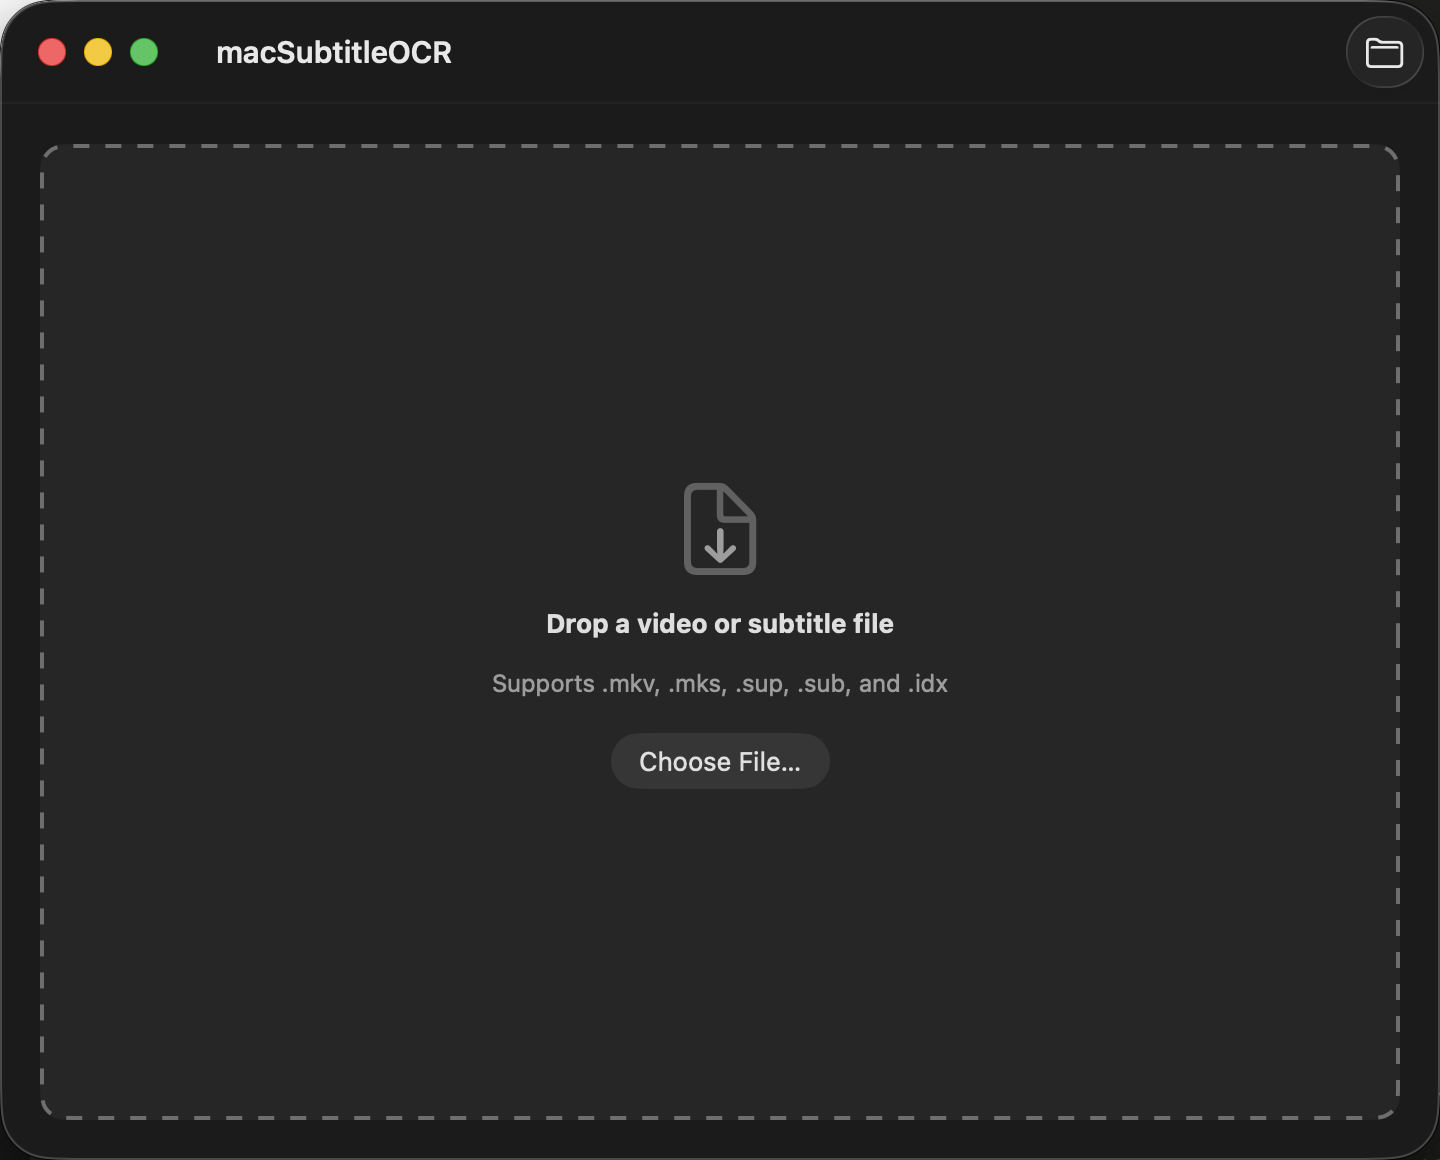
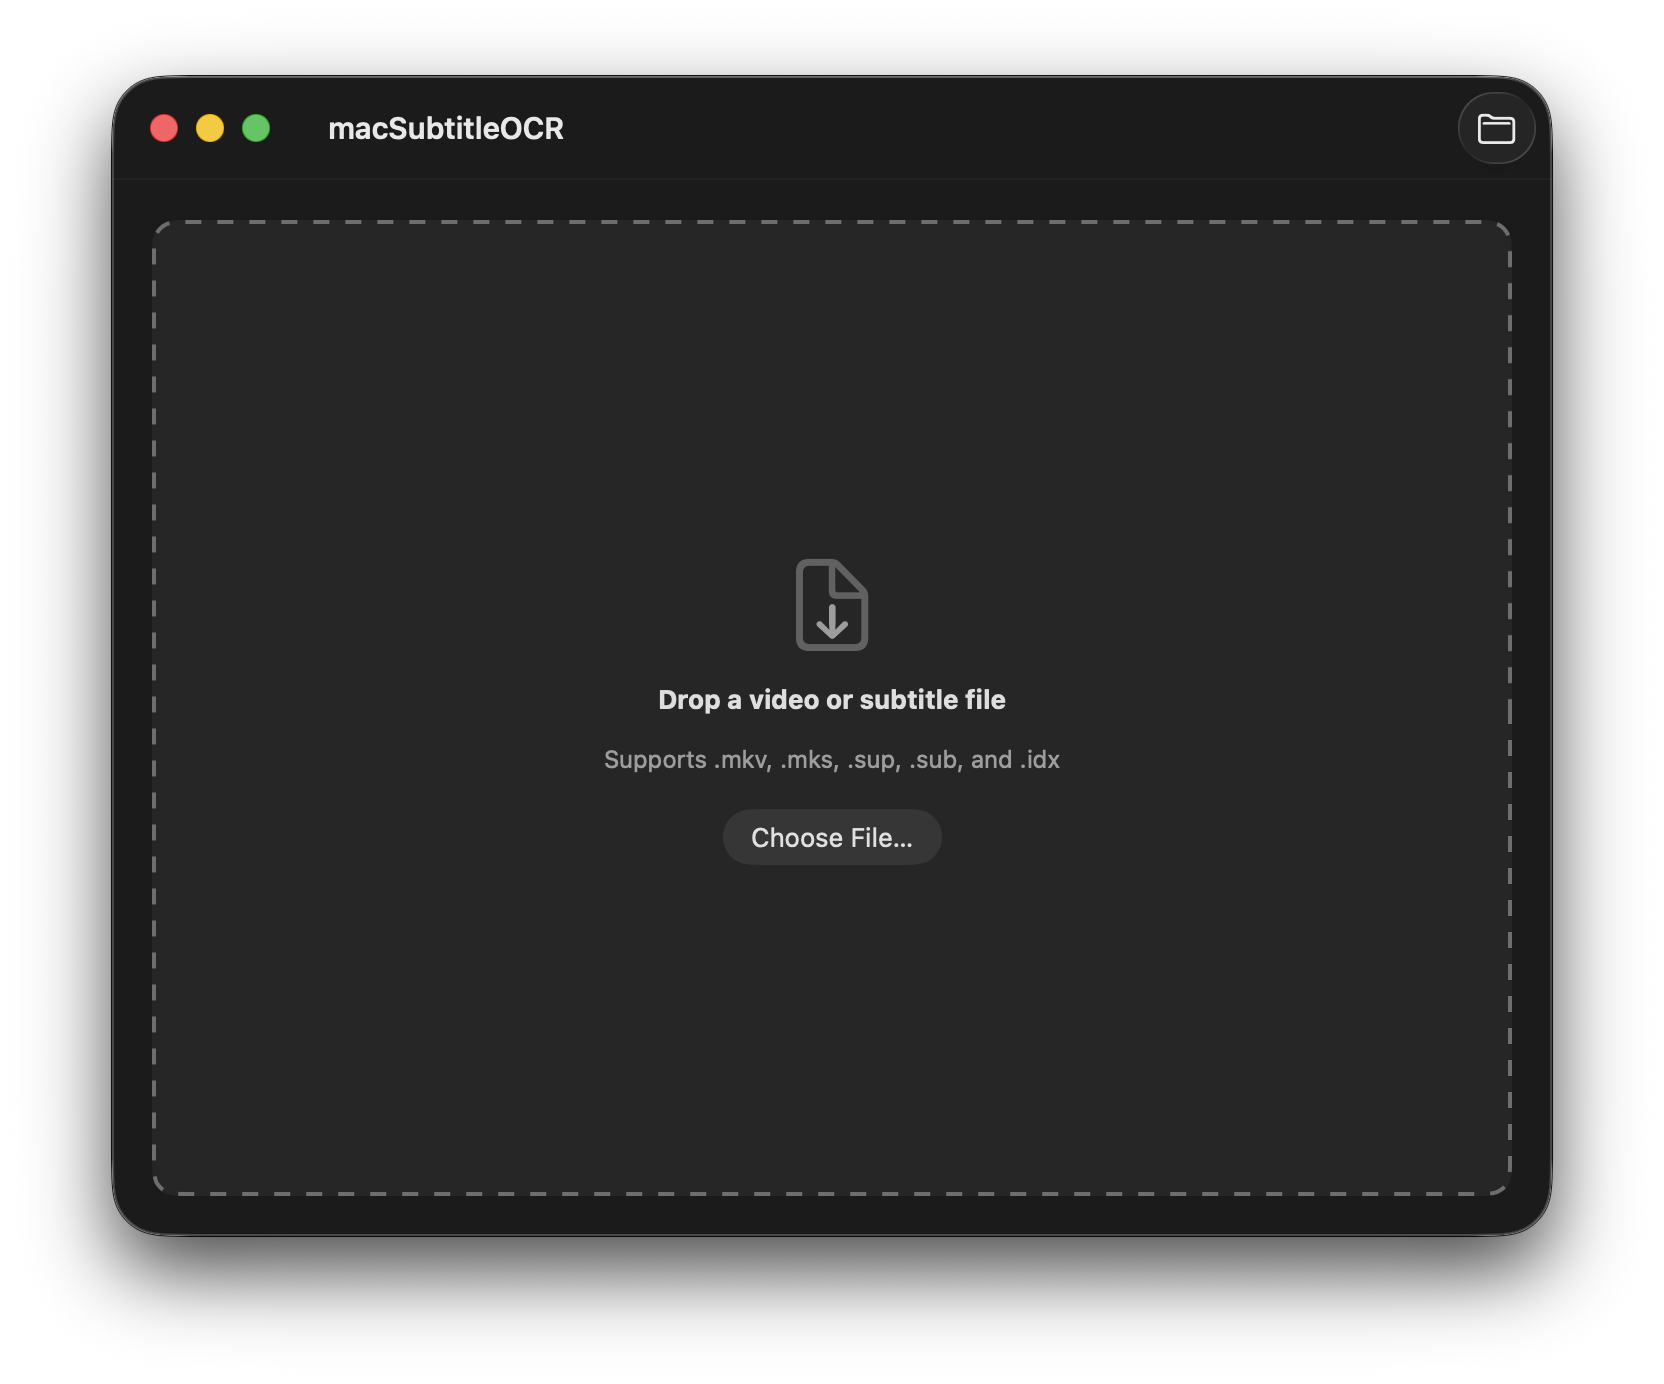
Capture docs screenshots as transparent window PNGs
The screenshots were region grabs (screencapture -R), which take a flat
rectangle: the desktop behind the window's rounded corners bled into the
image and there was no alpha channel.

Replace them with window captures — the window plus its shadow on
transparency, which is what ⇧⌘4 then Space produces. Add
Scripts/capture-window.sh to do it non-interactively via screencapture
-l<windowid>, resolving the id through CGWindowListCopyWindowInfo.

Three things the script has to get right, each found by looking at the
output rather than trusting the exit code:

- Open/Save panels belong to the same process, so an unfiltered match can
  capture one and publish the user's Finder sidebar. It matches on window
  title and skips known panel titles.
- The window must be activated first or the capture shows dimmed chrome
  and grey traffic lights. Activation targets the owning pid, since the
  window owner name (macSubtitleOCR), the process name
  (macSubtitleOCR-gui), and the AppleScript application name all differ.
- It fails if the result has no alpha channel, which catches a silent
  fallback to a region-style grab.

diff --git a/CONTRIBUTING.md b/CONTRIBUTING.md
@@ -52,6 +52,28 @@ workflow can be run by hand if a tag push doesn't pick it up:
 gh workflow run Release --ref v0.1.1
 ```
 
+## Screenshots
+
+Docs screenshots are window captures with an alpha channel — the window and
+its shadow, nothing of the desktop behind it. That's what ⇧⌘4 then Space
+produces interactively; `Scripts/capture-window.sh` does it non-interactively:
+
+```sh
+make app && open build/macSubtitleOCR-gui.app
+Scripts/capture-window.sh docs/screenshots/main-window.png "macSubtitleOCR"
+Scripts/capture-window.sh docs/screenshots/track-selection.png "sintel"
+cp docs/screenshots/*.png docs/site/     # the site uses the same images
+```
+
+Don't use `screencapture -R x,y,w,h`: a region grab is a flat rectangle, so
+whatever is behind the window's rounded corners bleeds into the image and
+there's no transparency.
+
+Always pass the title substring, and **look at the result before committing**.
+Open and Save panels belong to the same process, so capturing one by accident
+publishes your Finder sidebar. The script skips known panel titles and fails
+if the output has no alpha channel, but neither check replaces looking.
+
 ## Two packaging rules worth knowing
 
 Both of these caused shipped bugs, and neither is visible in a normal local
